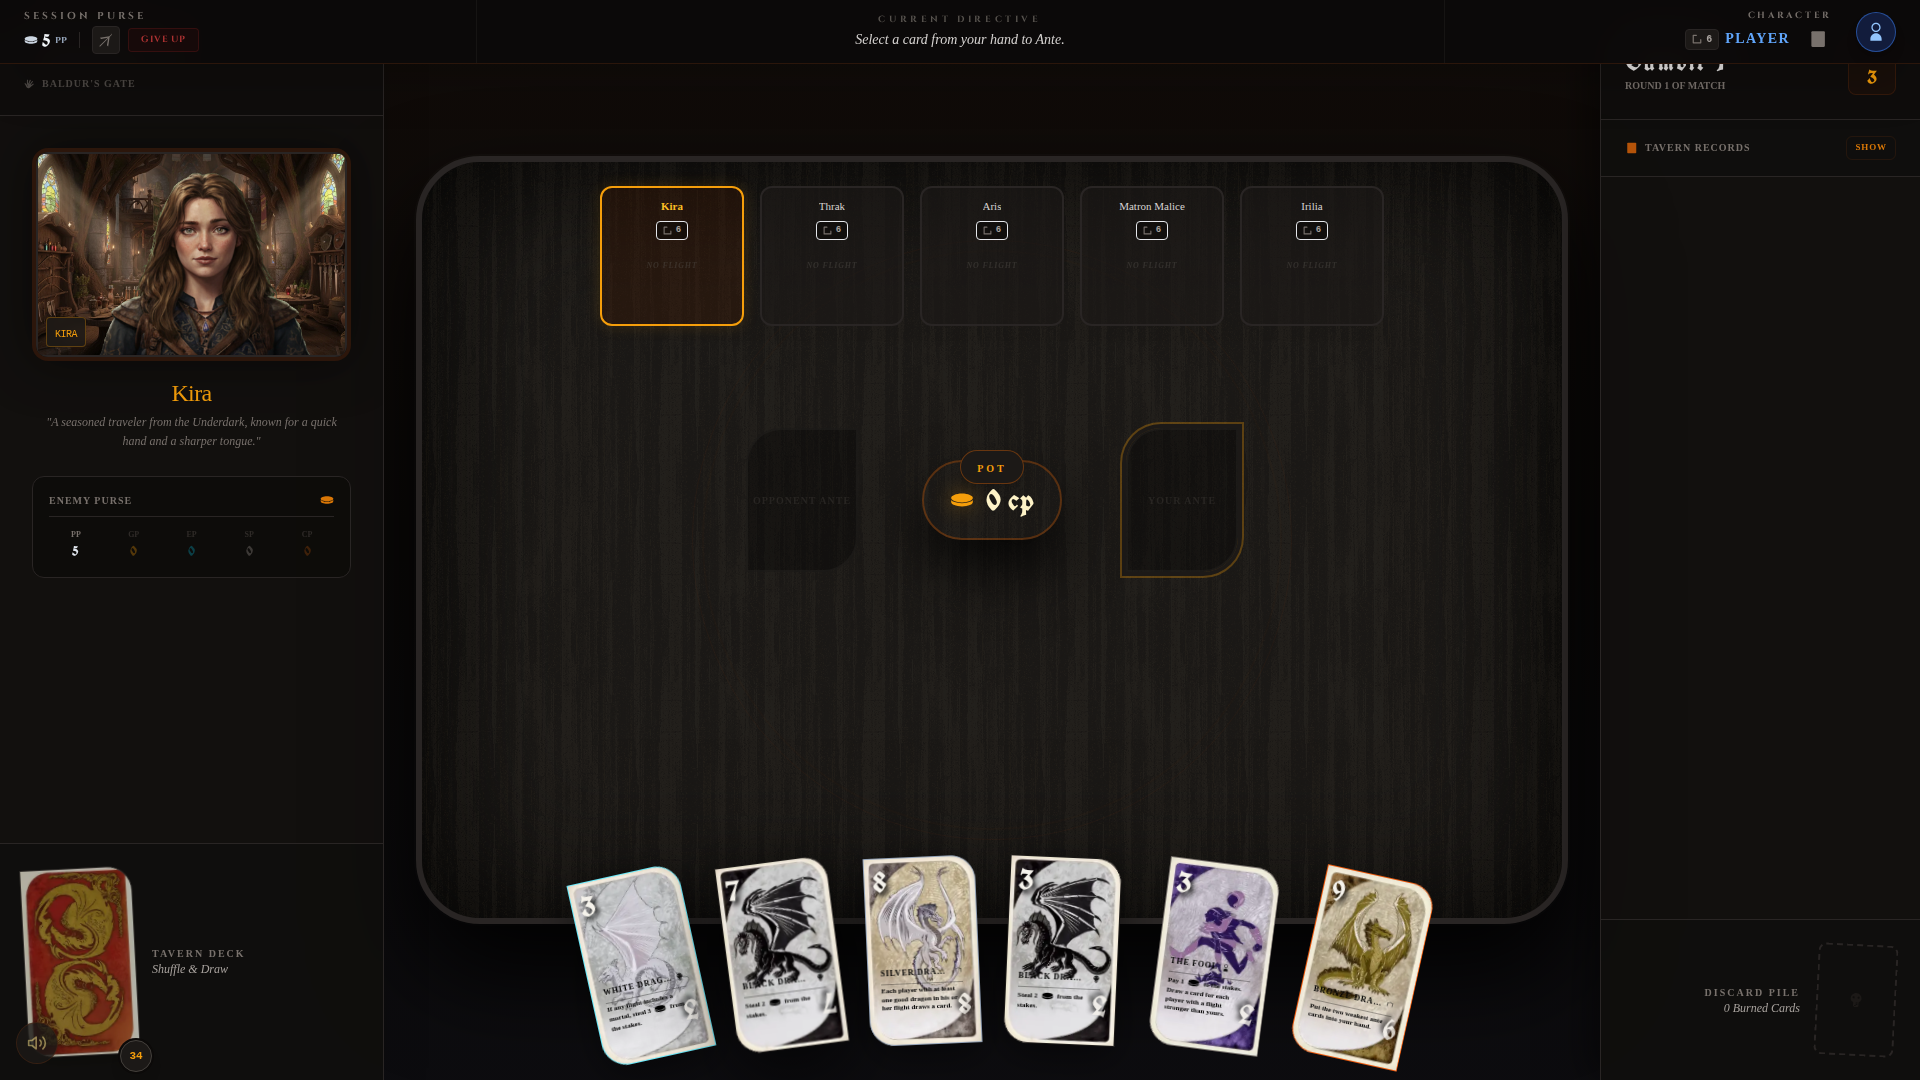
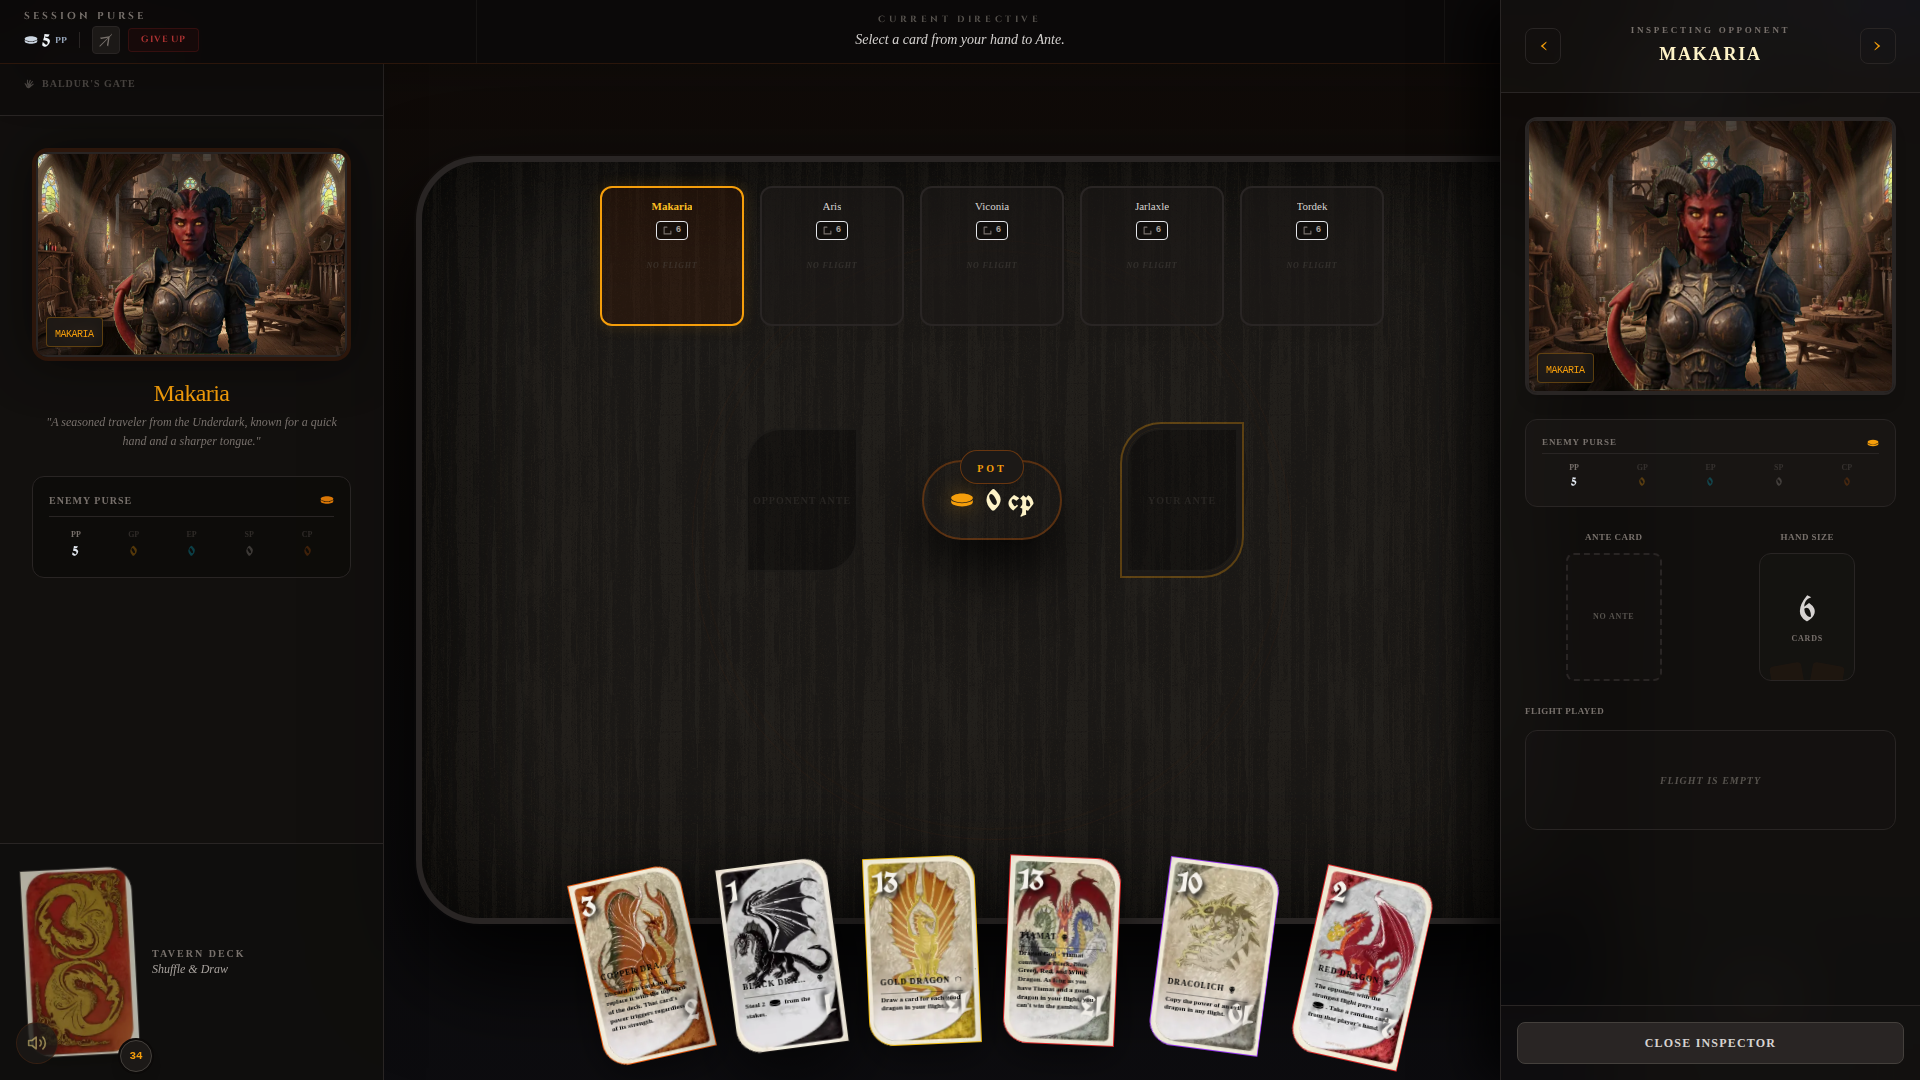
feat: Integrate 6-player multiplayer and Core Artificer D&D currency model
- Standardized the currency model under `src/utils/currency.ts` to implement the core D&D 5e split-currency system (`Money` interface supporting `cp`, `sp`, `ep`, `gp`, `pp`).
- Refactored `useGameStore.ts` to support up to 5 AI opponents + 1 human player (6 players total) with backward-compatible selector wrappers.
- Integrated an interactive sliding Opponent Inspector Drawer in `src/components/minigames/tda/TableTop.tsx` that pans left/right with Framer Motion animations.
- Verified visual layouts and robust behavior via a Playwright E2E visual suite (`tests/verify_multiplayer.spec.ts`).

diff --git a/src/components/minigames/tda/TableTop.tsx b/src/components/minigames/tda/TableTop.tsx
@@ -8,6 +8,7 @@ import NPC from '../../NPC';
 import { SPRITE_MAP, HAND_LIMIT } from '../../../utils/constants';
 import { NPC_LIST } from '../../../utils/npcConstants';
 import { formatPrice, formatWealth, Money, fromCopper } from '../../../utils/currency';
+import { playSound } from '../../../services/soundService';
 
 const TableTop: React.FC = () => {
   const {
@@ -60,6 +61,34 @@ const TableTop: React.FC = () => {
   const [hoveredIndex, setHoveredIndex] = useState<number | null>(null);
   const [showLog, setShowLog] = useState(false);
   const [browsingPile, setBrowsingPile] = useState<'deck' | 'discard' | null>(null);
+  const [isDrawerOpen, setIsDrawerOpen] = useState(false);
+  const [direction, setDirection] = useState(0);
+
+  // Helper to go to next opponent
+  const nextOpponent = () => {
+    if (players.length <= 2) return;
+    setDirection(1);
+    const nextIdx = focusedOpponentIndex === players.length - 1 ? 1 : focusedOpponentIndex + 1;
+    setFocusedOpponentIndex(nextIdx);
+    playSound('UI_CLICK');
+  };
+
+  // Helper to go to previous opponent
+  const prevOpponent = () => {
+    if (players.length <= 2) return;
+    setDirection(-1);
+    const prevIdx = focusedOpponentIndex === 1 ? players.length - 1 : focusedOpponentIndex - 1;
+    setFocusedOpponentIndex(prevIdx);
+    playSound('UI_CLICK');
+  };
+
+  const focusedOpponent = players[focusedOpponentIndex] || players[1];
+
+  React.useEffect(() => {
+    if (phase === 'opponent-turn' || (phase === 'round-start' && activePlayer !== 'player' && activePlayer !== null)) {
+      setIsDrawerOpen(true);
+    }
+  }, [phase, activePlayer]);
 
   const isPlayerTurn = (phase === 'player-turn' && activePlayer === 'player') ||
                        (phase === 'round-start' && currentLeader === 'player');
@@ -300,10 +329,13 @@ const TableTop: React.FC = () => {
                         return (
                            <div
                               key={opp.id}
-                              onClick={() => setFocusedOpponentIndex(actualIdx)}
+                              onClick={() => {
+                                  setFocusedOpponentIndex(actualIdx);
+                                  setIsDrawerOpen(true);
+                              }}
                               className={`cursor-pointer transition-all p-2.5 rounded-xl flex flex-col items-center gap-1.5 w-32 sm:w-36 border-2 relative
                                   ${isFocused ? 'bg-amber-950/30 border-amber-500 shadow-[0_0_15px_rgba(245,158,11,0.15)]' : 'bg-stone-900/60 border-stone-800 hover:border-stone-700'}
-                                  ${isTurn ? 'ring-2 ring-amber-500 ring-offset-2 ring-offset-stone-900 animate-pulse' : ''}
+                                  ${isTurn ? 'ring-2 ring-amber-500 ring-offset-2 ring-offset-stone-900 animate-pulse animate-duration-1000' : ''}
                               `}
                            >
                                <div className="flex items-center gap-1">
@@ -436,9 +468,20 @@ const TableTop: React.FC = () => {
                        {getIcon('ui', 'scroll', { size: 12, className: "text-amber-700" })}
                        <span className="text-[10px] uppercase font-bold tracking-widest text-stone-500">Tavern Records</span>
                    </div>
-                   <button onClick={() => setShowLog(!showLog)} className="text-[9px] uppercase tracking-widest text-amber-600 hover:text-amber-400 font-bold px-2 py-1 border border-amber-900/20 rounded-md transition-colors">
-                       {showLog ? 'Hide' : 'Show'}
-                   </button>
+                   <div className="flex gap-2">
+                       <button
+                           onClick={() => {
+                               playSound('UI_CLICK');
+                               setIsDrawerOpen(true);
+                           }}
+                           className="text-[9px] uppercase tracking-widest text-amber-500 hover:text-amber-400 font-bold px-2.5 py-1 border border-stone-800 hover:border-amber-500/50 bg-amber-950/20 rounded-md transition-colors flex items-center gap-1.5"
+                       >
+                           {getIcon('ui', 'search', { size: 10 })} Inspect
+                       </button>
+                       <button onClick={() => setShowLog(!showLog)} className="text-[9px] uppercase tracking-widest text-stone-500 hover:text-stone-400 font-bold px-2 py-1 border border-stone-800 rounded-md transition-colors">
+                           {showLog ? 'Hide' : 'Show'}
+                       </button>
+                   </div>
               </div>
               <div className={`flex-1 overflow-y-auto p-6 space-y-4 custom-scrollbar transition-opacity duration-300 ${showLog ? 'opacity-100' : 'opacity-0'}`}>
                   {useGameStore.getState().history.slice().reverse().map((entry, idx) => (
@@ -536,6 +579,186 @@ const TableTop: React.FC = () => {
                     </div>
                 </div>
             </div>
+          </motion.div>
+        )}
+      </AnimatePresence>
+
+      {/* 4. SLIDE-OUT OPPONENTS CAROUSEL DRAWER */}
+      <AnimatePresence>
+        {isDrawerOpen && focusedOpponent && (
+          <motion.div
+            initial={{ x: '100%' }}
+            animate={{ x: 0 }}
+            exit={{ x: '100%' }}
+            transition={{ type: 'spring', damping: 25, stiffness: 200 }}
+            className="absolute top-0 right-0 w-96 sm:w-[420px] h-full border-l border-stone-800 bg-stone-950/98 backdrop-blur-2xl shadow-[-20px_0_50px_rgba(0,0,0,0.85)] z-[140] flex flex-col pointer-events-auto"
+          >
+              {/* Drawer Header with Navigation */}
+              <div className="p-6 border-b border-stone-800 flex items-center justify-between bg-stone-900/40">
+                  <button
+                    onClick={prevOpponent}
+                    disabled={players.length <= 2}
+                    className="p-2 hover:bg-stone-800 disabled:opacity-30 disabled:cursor-not-allowed rounded-lg border border-stone-800 hover:border-stone-700 transition-colors text-amber-500"
+                    title="Previous Opponent"
+                  >
+                      {getIcon('ui', 'chevron_left', { size: 18 })}
+                  </button>
+
+                  <div className="text-center flex flex-col">
+                      <span className="text-[9px] uppercase tracking-[0.3em] text-stone-500 font-bold mb-0.5">Inspecting Opponent</span>
+                      <span className="text-lg text-amber-100 font-serif font-bold uppercase tracking-widest">{focusedOpponent.name}</span>
+                  </div>
+
+                  <button
+                    onClick={nextOpponent}
+                    disabled={players.length <= 2}
+                    className="p-2 hover:bg-stone-800 disabled:opacity-30 disabled:cursor-not-allowed rounded-lg border border-stone-800 hover:border-stone-700 transition-colors text-amber-500"
+                    title="Next Opponent"
+                  >
+                      {getIcon('ui', 'chevron_right', { size: 18 })}
+                  </button>
+              </div>
+
+              {/* Drawer Body - Panning Area */}
+              <div className="flex-1 overflow-y-auto custom-scrollbar p-6 flex flex-col gap-6 relative overflow-x-hidden">
+
+                  {/* Panning Container */}
+                  <AnimatePresence initial={false} custom={direction}>
+                      <motion.div
+                        key={focusedOpponent.id}
+                        custom={direction}
+                        variants={{
+                          enter: (dir: number) => ({
+                            x: dir > 0 ? 150 : -150,
+                            opacity: 0
+                          }),
+                          center: {
+                            x: 0,
+                            opacity: 1
+                          },
+                          exit: (dir: number) => ({
+                            x: dir < 0 ? 150 : -150,
+                            opacity: 0
+                          })
+                        }}
+                        initial="enter"
+                        animate="center"
+                        exit="exit"
+                        transition={{ type: 'tween', duration: 0.2 }}
+                        className="flex flex-col gap-6 w-full"
+                      >
+                          {/* Animated NPC Avatar */}
+                          <div className="relative w-full aspect-[4/3] rounded-xl border-2 border-stone-800 bg-stone-900 overflow-hidden shadow-lg">
+                              <NPC
+                                npc={NPC_LIST.find(n => n.id === focusedOpponent.npcId) || NPC_LIST[0]}
+                                emotion={focusedOpponent.emotion || 'neutral'}
+                                width={400}
+                                height={300}
+                                className="w-full h-full object-cover"
+                              />
+                              {activePlayer === focusedOpponent.id && (
+                                  <div className="absolute top-3 right-3 bg-amber-600/90 rounded-full p-2 border border-amber-400 shadow-xl animate-pulse">
+                                      {getIcon('ui', 'thinking', { size: 16, className: "text-stone-950" })}
+                                  </div>
+                              )}
+                          </div>
+
+                          {/* Coinage Purse */}
+                          <div className="bg-stone-900/60 rounded-xl p-4 border border-stone-800">
+                              <div className="flex items-center justify-between mb-2 border-b border-stone-800 pb-1">
+                                   <span className="text-[9px] text-stone-500 uppercase font-bold tracking-widest">Enemy Purse</span>
+                                   {getIcon('ui', 'gold-coin', { size: 12, className: "text-amber-500" })}
+                              </div>
+                              {(() => {
+                                  const oppWealth: Money = fromCopper(focusedOpponent.gold, true);
+                                  return (
+                                      <div className="grid grid-cols-5 gap-1 text-center">
+                                          <div className={`flex flex-col ${oppWealth.pp > 0 ? '' : 'opacity-30'}`}>
+                                              <span className="text-[8px] uppercase text-stone-500 font-bold">PP</span>
+                                              <span className="font-gothic text-xs text-slate-200">{oppWealth.pp}</span>
+                                          </div>
+                                          <div className={`flex flex-col ${oppWealth.gp > 0 ? '' : 'opacity-30'}`}>
+                                              <span className="text-[8px] uppercase text-stone-500 font-bold">GP</span>
+                                              <span className="font-gothic text-xs text-amber-500">{oppWealth.gp}</span>
+                                          </div>
+                                          <div className={`flex flex-col ${oppWealth.ep > 0 ? '' : 'opacity-30'}`}>
+                                              <span className="text-[8px] uppercase text-stone-500 font-bold">EP</span>
+                                              <span className="font-gothic text-xs text-cyan-500">{oppWealth.ep}</span>
+                                          </div>
+                                          <div className={`flex flex-col ${oppWealth.sp > 0 ? '' : 'opacity-30'}`}>
+                                              <span className="text-[8px] uppercase text-stone-500 font-bold">SP</span>
+                                              <span className="font-gothic text-xs text-stone-400">{oppWealth.sp}</span>
+                                          </div>
+                                          <div className={`flex flex-col ${oppWealth.cp > 0 ? '' : 'opacity-30'}`}>
+                                              <span className="text-[8px] uppercase text-stone-500 font-bold">CP</span>
+                                              <span className="font-gothic text-xs text-amber-700">{oppWealth.cp}</span>
+                                          </div>
+                                      </div>
+                                  );
+                              })()}
+                          </div>
+
+                          {/* Ante & Flight Section */}
+                          <div className="grid grid-cols-2 gap-4">
+                              {/* Ante Card */}
+                              <div className="flex flex-col items-center">
+                                  <span className="text-[9px] uppercase tracking-wider text-stone-500 font-bold mb-2">Ante Card</span>
+                                  {focusedOpponent.ante ? (
+                                      <Card card={focusedOpponent.ante} size="sm" isFaceUp={phase !== 'ante-selection'} />
+                                  ) : (
+                                      <div className="w-24 h-32 border-2 border-dashed border-stone-800 rounded-lg flex items-center justify-center bg-stone-900/20">
+                                          <span className="text-[8px] text-stone-600 uppercase font-bold tracking-widest">No Ante</span>
+                                      </div>
+                                  )}
+                              </div>
+
+                              {/* Hand Count */}
+                              <div className="flex flex-col items-center">
+                                  <span className="text-[9px] uppercase tracking-wider text-stone-500 font-bold mb-2">Hand Size</span>
+                                  <div className="flex flex-col items-center justify-center h-32 w-24 bg-stone-900/30 border border-stone-800 rounded-xl relative overflow-hidden">
+                                      <span className="text-4xl font-gothic text-stone-300 mb-1">{focusedOpponent.hand.length}</span>
+                                      <span className="text-[8px] text-stone-500 uppercase tracking-widest font-bold">Cards</span>
+                                      {/* Face down cards overlay effect */}
+                                      <div className="absolute -bottom-8 opacity-10 flex gap-1">
+                                          <div className="w-8 h-12 bg-amber-900 rounded transform rotate-[-10deg]" />
+                                          <div className="w-8 h-12 bg-amber-900 rounded transform rotate-[10deg]" />
+                                      </div>
+                                  </div>
+                              </div>
+                          </div>
+
+                          {/* Flight Cards list */}
+                          <div className="flex flex-col">
+                              <span className="text-[9px] uppercase tracking-wider text-stone-500 font-bold mb-3">Flight Played</span>
+                              <div className="flex flex-wrap gap-2.5 justify-center py-2 bg-stone-900/20 rounded-xl border border-stone-800 min-h-[100px] items-center px-4">
+                                  {focusedOpponent.flight.map((c) => (
+                                      <div key={c.id} className="transform hover:scale-105 transition-transform">
+                                          <Card card={c} size="sm" glow={lastCardPlayed?.id === c.id ? 'red' : 'none'} />
+                                      </div>
+                                  ))}
+                                  {focusedOpponent.flight.length === 0 && (
+                                      <span className="text-[10px] text-stone-600 uppercase font-bold tracking-widest italic">Flight is empty</span>
+                                  )}
+                              </div>
+                          </div>
+
+                      </motion.div>
+                  </AnimatePresence>
+
+              </div>
+
+              {/* Drawer Footer with close button */}
+              <div className="p-4 border-t border-stone-800 flex justify-center bg-stone-900/20">
+                  <button
+                    onClick={() => {
+                        playSound('UI_CLICK');
+                        setIsDrawerOpen(false);
+                    }}
+                    className="w-full py-3 bg-stone-800 hover:bg-stone-700 text-stone-300 hover:text-white rounded-lg border border-stone-700 transition-all text-xs font-bold uppercase tracking-widest"
+                  >
+                      Close Inspector
+                  </button>
+              </div>
           </motion.div>
         )}
       </AnimatePresence>
